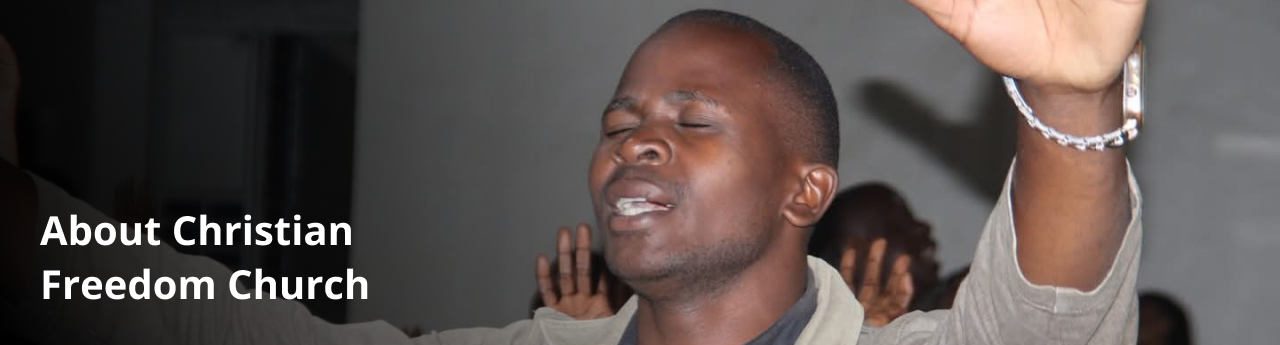
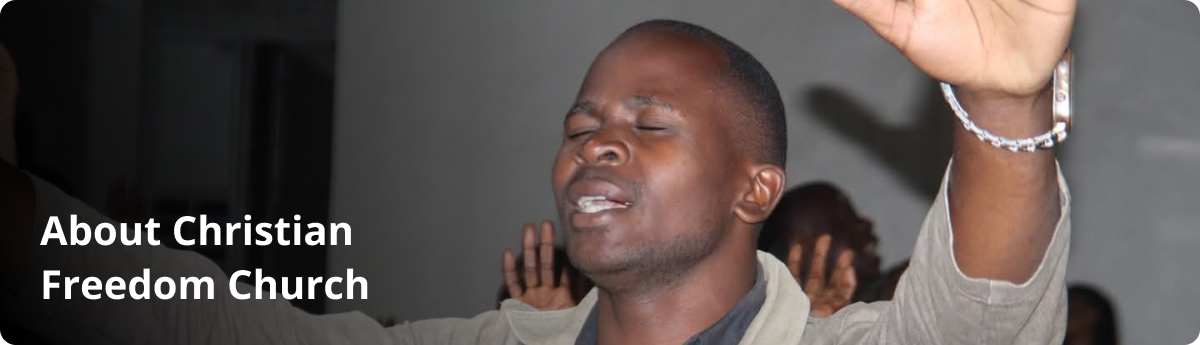
about page done

diff --git a/components/about/teamCard.tsx b/components/about/teamCard.tsx
@@ -4,29 +4,27 @@ import Container from "../container";
 
 const TeamGrid = () => {
   return (
-    <Container>
-      <div className="flex items-center justify-center">
-        <div className="grid grid-cols-1 md:grid-cols-2 lg:grid-cols-3 gap-40">
-          {leadershipTeam.map((leader) => (
-            <div className="max-w-[320px] flex flex-col" key={leader.id}>
-              <div className="relative w-full  overflow-hidden">
-                <Image
-                  src={leader.img}
-                  alt={`${leader.leaderName} - ${leader.title}`}
-                  className="object-cover"
-                  width={320}
-                  height={400}
-                />
-              </div>
-              <div className="mt-4 space-y-2">
-                <h3 className="text-h3 font-semibold">{leader.leaderName}</h3>
-                <p className="text-dark text-p1">{leader.title}</p>
-              </div>
+    <div className="flex items-center justify-center">
+      <div className="grid grid-cols-1 md:grid-cols-2 lg:grid-cols-4 gap-10 ">
+        {leadershipTeam.map((leader) => (
+          <div className="max-w-[270px] flex flex-col" key={leader.id}>
+            <div className="relative w-full  overflow-hidden">
+              <Image
+                src={leader.img}
+                alt={`${leader.leaderName} - ${leader.title}`}
+                className="object-cover"
+                width={270}
+                height={300}
+              />
             </div>
-          ))}
-        </div>
+            <div className="mt-4 space-y-2">
+              <h3 className="text-p1 font-semibold">{leader.leaderName}</h3>
+              <p className="text-dark text-p2">{leader.title}</p>
+            </div>
+          </div>
+        ))}
       </div>
-    </Container>
+    </div>
   );
 };
 

diff --git a/app/about/page.tsx b/app/about/page.tsx
@@ -4,28 +4,30 @@ import MissionVision from "@/components/about/mission-vision";
 import TeamGrid from "@/components/about/teamCard";
 import MinistryLeadership from "@/components/about/ministry-leadership";
 import { JoinCfc } from "@/components/about/joinUs";
-
+import Container from "@/components/container";
 export const About = () => {
   return (
-    <div className="py-10 flex flex-col gap-10 items-center justify-center">
-      <div className="relative w-full">
-        <Image
-          layout="responsive"
-          height={345}
-          width={1280}
-          className="object-cover"
-          src={"/Images/about/about-hero.png"}
-          alt={"About Hero Image"}
-        />
+    <Container>
+      <div className="py-10 flex flex-col gap-10 items-center justify-center">
+        <div className="max-w-[1200px]">
+          <Image
+            layout=""
+            height={345}
+            width={1200}
+            className="object-cover rounded-2xl"
+            src={"/Images/about/about-hero2.png"}
+            alt={"About Hero Image"}
+          />
+        </div>
+        <MissionVision />
+
+        <MinistryLeadership />
+
+        <TeamGrid />
+
+        <JoinCfc />
       </div>
-      <MissionVision />
-
-      <MinistryLeadership />
-
-      <TeamGrid />
-
-      <JoinCfc />
-    </div>
+    </Container>
   );
 };
 

diff --git a/app/give/page.tsx b/app/give/page.tsx
@@ -7,10 +7,10 @@ export const Give = () => {
         <Image
           src="/Images/give/give-hero.png"
           alt="About Hero Image"
-          layout="responsive"
-          width={1280}
+          layout=""
+          width={1200}
           height={345}
-          className="object-cover"
+          className="object-cover rounded-2xl"
         />
       </div>
 
@@ -32,7 +32,7 @@ export const Give = () => {
               src="/Images/give/mtn.png"
               alt="mtn logo"
             />
-            <p className="text-p1 text-blue-600">+256 752 566 228</p>
+            <p className="text-dark text-p1">+256 752 566 228</p>
           </div>
 
           <div className="flex flex-col gap-5 items-center justify-center">
@@ -43,7 +43,7 @@ export const Give = () => {
               src="/Images/give/airtel.png"
               alt="airtel logo"
             />
-            <p className="text-p1 text-red-600">+256 752 566 228</p>
+            <p className="text-dark text-p1">+256 752 566 228</p>
           </div>
         </div>
       </div>

diff --git a/components/welcome.tsx b/components/welcome.tsx
@@ -65,15 +65,15 @@ const WelcomeMessage = () => {
 
         {/* content section */}
         <div className="py-8 md:py-[117px] flex flex-col items-start">
-          <h2 className="pb-6 md:pb-8 font-Montserrat text-2xl md:text-h2 font-semibold max-w-full md:max-w-[580px] ">
+          <h3 className="pb-6 md:pb-8  md:text-h3 font-semibold max-w-full md:max-w-[580px] ">
             Welcome to Christian Freedom Church!
-          </h2>
+          </h3>
           <div className="flex flex-col gap-4 pb-6 md:pb-8 max-w-full md:max-w-[496px] text-dark">
-            <p className="text-base">
+            <p className="text-p1">
               Join a community where we uplift, support and grow together in
               faith Welcome to freedom!
             </p>
-            <p className="text-base">
+            <p className="text-p1">
               Our doors are open, our hearts are full, and our mission is clear:
               to share God&apos;s love and walk in his freedom.
             </p>

diff --git a/components/about/joinUs.tsx b/components/about/joinUs.tsx
@@ -10,10 +10,10 @@ export const JoinCfc = () => {
 
   return (
     <div className="py-10 flex flex-col gap-5 items-center justify-center">
-      <h2 className="text-h2">Join us today</h2>  
+      <h2 className="text-h3 font-bold">Join us today</h2>
       <div className=" max-w-[866px] items-center justify-center flex flex-col ">
-        <h3 className="text-h3 text-center">Romans 15:7</h3>
-        <h3 className="text-h3 text-center">
+        <h3 className="text-p1 font-semibold text-center">Romans 15:7</h3>
+        <h3 className="text-p1 text-center">
           "Therefore, accept each other just as Christ has accepted you so that
           God will be given glory” Become part of the great family and draw
           closer to God we welcome you

diff --git a/components/about/ministry-leadership.tsx b/components/about/ministry-leadership.tsx
@@ -3,9 +3,9 @@ import Container from "@/components/container";
 export const MinistryLeadership = () => {
   return (
     <Container>
-      <div className="flex flex-col justify-center gap-6 items-center">
-        <h2 className="text-h2">Ministry leadership team</h2>
-        <p className="text-h3 max-w-[618px] text-center">
+      <div className="flex flex-col justify-center gap-6 items-center pt-10">
+        <h2 className="text-h3 font-bold">Ministry leadership team</h2>
+        <p className="text-p1 max-w-[618px] text-center">
           Christian Freedom Church is a faith based community church led by our
           senior Pastor Bishop Dr. Godfrey Musisi Juuko and his loving wife
           Pastor Christine Musisi

diff --git a/constants/index.ts b/constants/index.ts
@@ -172,14 +172,28 @@ export const leadershipTeam: LeadershipTeam[] = [
     title: "Women’s lead",
     img: "/Images/womenlead.png",
   },
+
   {
     id: 4,
     leaderName: "Jjuuko Isaac",
     title: "Socials Manager",
     img: "/Images/socialsmanager.png",
   },
+
   {
     id: 5,
+    leaderName: "Keyla Smith",
+    title: "Assistant choir lead",
+    img: "/Images/assistantchoirlead.png",
+  },
+  {
+    id: 6,
+    leaderName: "Jordan Mwesigwa",
+    title: "Entertainment lead",
+    img: "/Images/entertainmentlead.png",
+  },
+  {
+    id: 7,
     leaderName: "John Doe",
     title: "Men's lead",
     img: "/Images/menslead.png",

diff --git a/components/about/mission-vision.tsx b/components/about/mission-vision.tsx
@@ -15,7 +15,7 @@ export const MissionVision = () => {
         {/* Image section */}
         <div>
           <Image
-            src={"/Images/about/mission.png"}
+            src={"/Images/about/mission2.png"}
             width={350}
             height={330}
             alt="Mission Image"
@@ -27,7 +27,7 @@ export const MissionVision = () => {
         {/* Image section */}
         <div>
           <Image
-            src={"/Images/about/mission.png"}
+            src={"/Images/about/vision2.png"}
             width={350}
             height={330}
             alt="Mission Image"

diff --git a/components/service-section.tsx b/components/service-section.tsx
@@ -6,9 +6,9 @@ const ServiceSection = () => {
   return (
     <Container>
       <div className="py-[52px]">
-        <h2 className="pb-10 font-Montserrat text-h2 sm:text-h1  font-semibold  text-center">
+        <h3 className="pb-10 md:text-h3 sm:text-h1  font-semibold  text-center">
           Our Services
-        </h2>
+        </h3>
         <div className="grid grid-cols-1 md:grid-cols-2 lg:grid-cols-3 gap-8 md:gap-[60px] lg:gap-[120px] rounded-2xl relative">
           {ServiceCardProps &&
             ServiceCardProps.map((ServiceCardProp) => (

diff --git a/components/contact/contact-form.tsx b/components/contact/contact-form.tsx
@@ -62,7 +62,9 @@ const ContactForm = () => {
   return (
     <Card className="w-full max-w-[465px] border-none shadow-2xl sm:px-0 sm:w-full">
       <CardHeader>
-        <CardTitle className="text-primary  ">Contact us</CardTitle>
+        <CardTitle className="text-primary ">
+          <h3 className="text-h3">Contact us</h3>
+        </CardTitle>
       </CardHeader>
       <CardContent>
         <form onSubmit={handleSubmit} className="space-y-4 ">

diff --git a/components/values.tsx b/components/values.tsx
@@ -7,7 +7,7 @@ const Values = () => {
     <Container>
       <div className=" flex flex-col gap-10">
         <div className="max-w-2xl mx-auto text-center pt-[52px]">
-          <h1 className="text-h1 font-bold mb-4  text-clip">
+          <h1 className="text-h3 font-bold mb-4  text-clip">
             Our Values
           </h1>
           <p className="text-p1">
